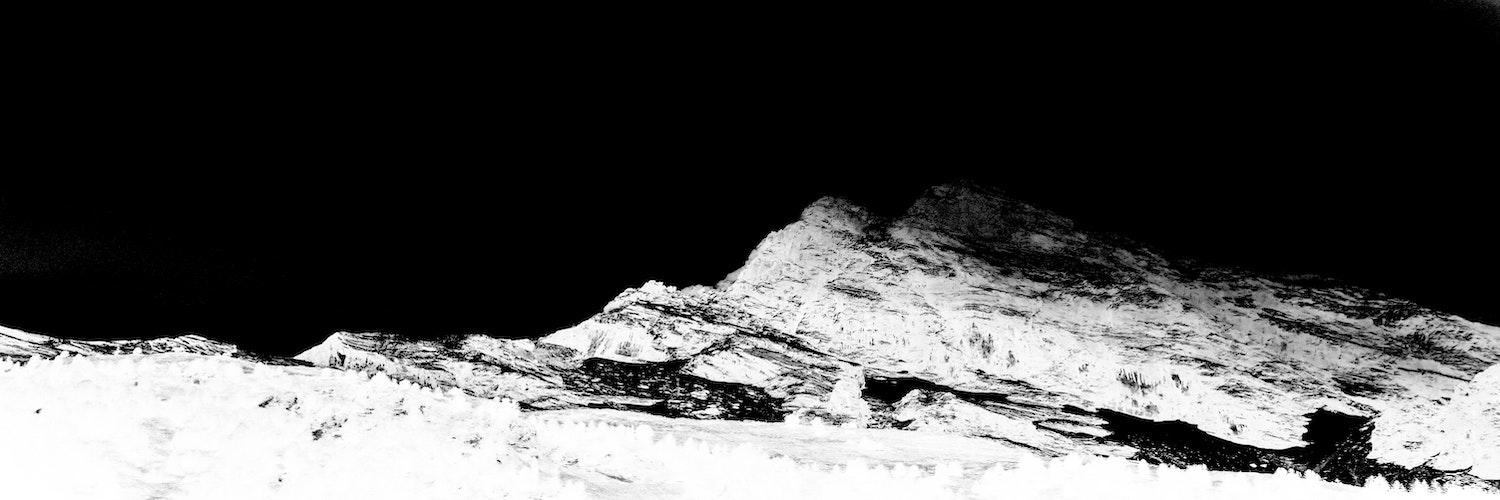
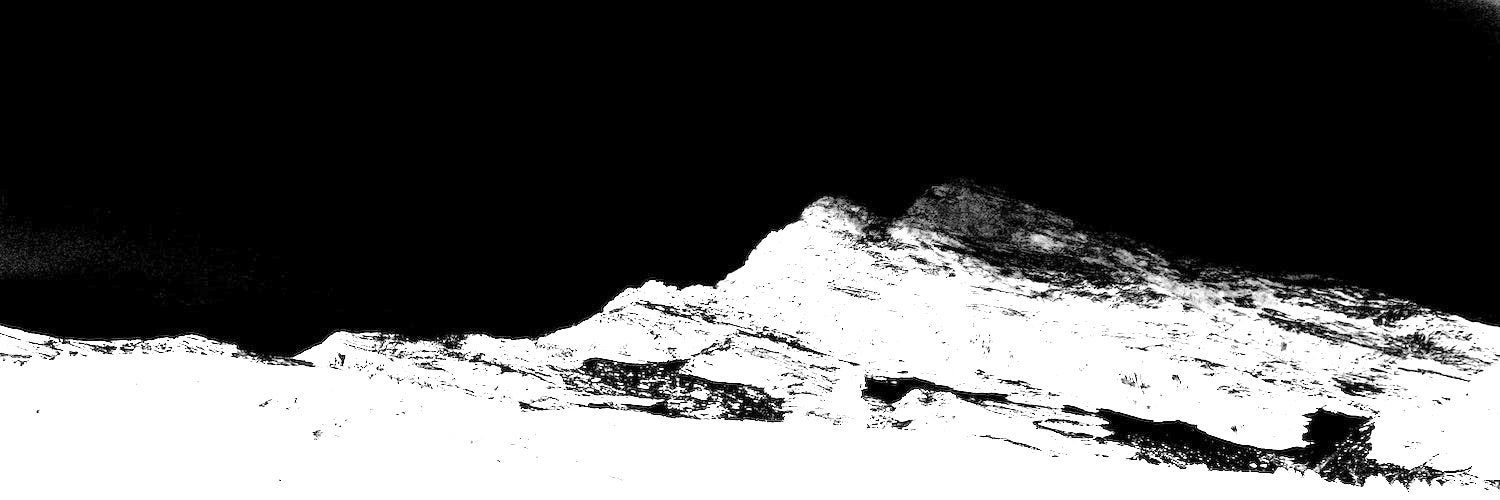
Changed background color

diff --git a/css/style.css b/css/style.css
@@ -105,7 +105,7 @@
 		-ms-transform: translate3d(0,0,0);
 		transform: translate3d(0,0,0);
 		/* Set your background with this */
-		background: #111111 url("images/bg.jpg") bottom left;
+		background: #000000 url("images/bg.jpg") bottom left;
 		background-repeat: repeat-x;
 		height: 100%;
 		left: 0;
